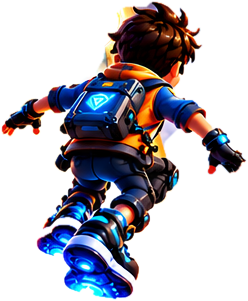
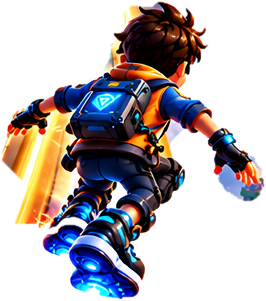
Screen 1: cut the boy's fingertips cleanly; smaller lane shift
The glove fingertips (and their glow) are now part of the boy layer, so
nothing of him is left behind when he changes lane. Lane shift at his
depth reduced to 30 px to match the painted lane spacing.

Claude-Session: https://claude.ai/code/session_01LqUiEtiUamHcvWne14kZDD

diff --git a/src/screen1/Perspective.ts b/src/screen1/Perspective.ts
@@ -31,7 +31,7 @@ export const FADE_NEAR_Z = 3.0;
 /** Items are removed once they leave the bottom of the screen. */
 export const REMOVE_Z = 0.27;
 /** Boy's lateral shift per lane (px) - lanes seen at his depth. */
-export const BOY_LANE_PX = 38;
+export const BOY_LANE_PX = 30;
 
 /** Centre line of the gold rail (through the coin trail). */
 export function centreX(y: number): number {

diff --git a/tools/extract_screen1.py b/tools/extract_screen1.py
@@ -32,6 +32,9 @@ for c in [
     [(270,560),(320,560),(330,600),(320,660),(300,700),(260,700),(240,660),(230,610)],
     [(236,760),(265,745),(280,800),(250,805)],
     [(270,530),(310,528),(325,555),(280,565)],
+    # gloves with the orange fingertips
+    [(158,648),(170,636),(190,632),(200,640),(196,658),(178,666),(162,662)],
+    [(362,684),(372,674),(392,680),(406,694),(404,712),(392,718),(376,708)],
 ]:
     cv2.fillPoly(mask, [np.array(c, np.int32)], cv2.GC_FGD)
 # Rail visible beside the head / under the right arm is background.
@@ -47,6 +50,11 @@ n, lab, stats, _ = cv2.connectedComponentsWithStats(boy)
 boy = np.where(lab == 1 + np.argmax(stats[1:, cv2.CC_STAT_AREA]), 255, 0).astype(np.uint8)
 # fill pinholes
 boy = cv2.morphologyEx(boy, cv2.MORPH_CLOSE, np.ones((3, 3), np.uint8))
+# Fingertip glow: grow the mask a little around both hands.
+hands = np.zeros_like(boy)
+cv2.circle(hands, (176, 652), 22, 255, -1)
+cv2.circle(hands, (390, 700), 24, 255, -1)
+boy = np.where((hands > 0) & (cv2.dilate(boy, np.ones((7, 7), np.uint8)) > 0), 255, boy).astype(np.uint8)
 boy_alpha = cv2.GaussianBlur(boy, (3, 3), 0.7)
 
 # --------------------------------------------------------------- coins
